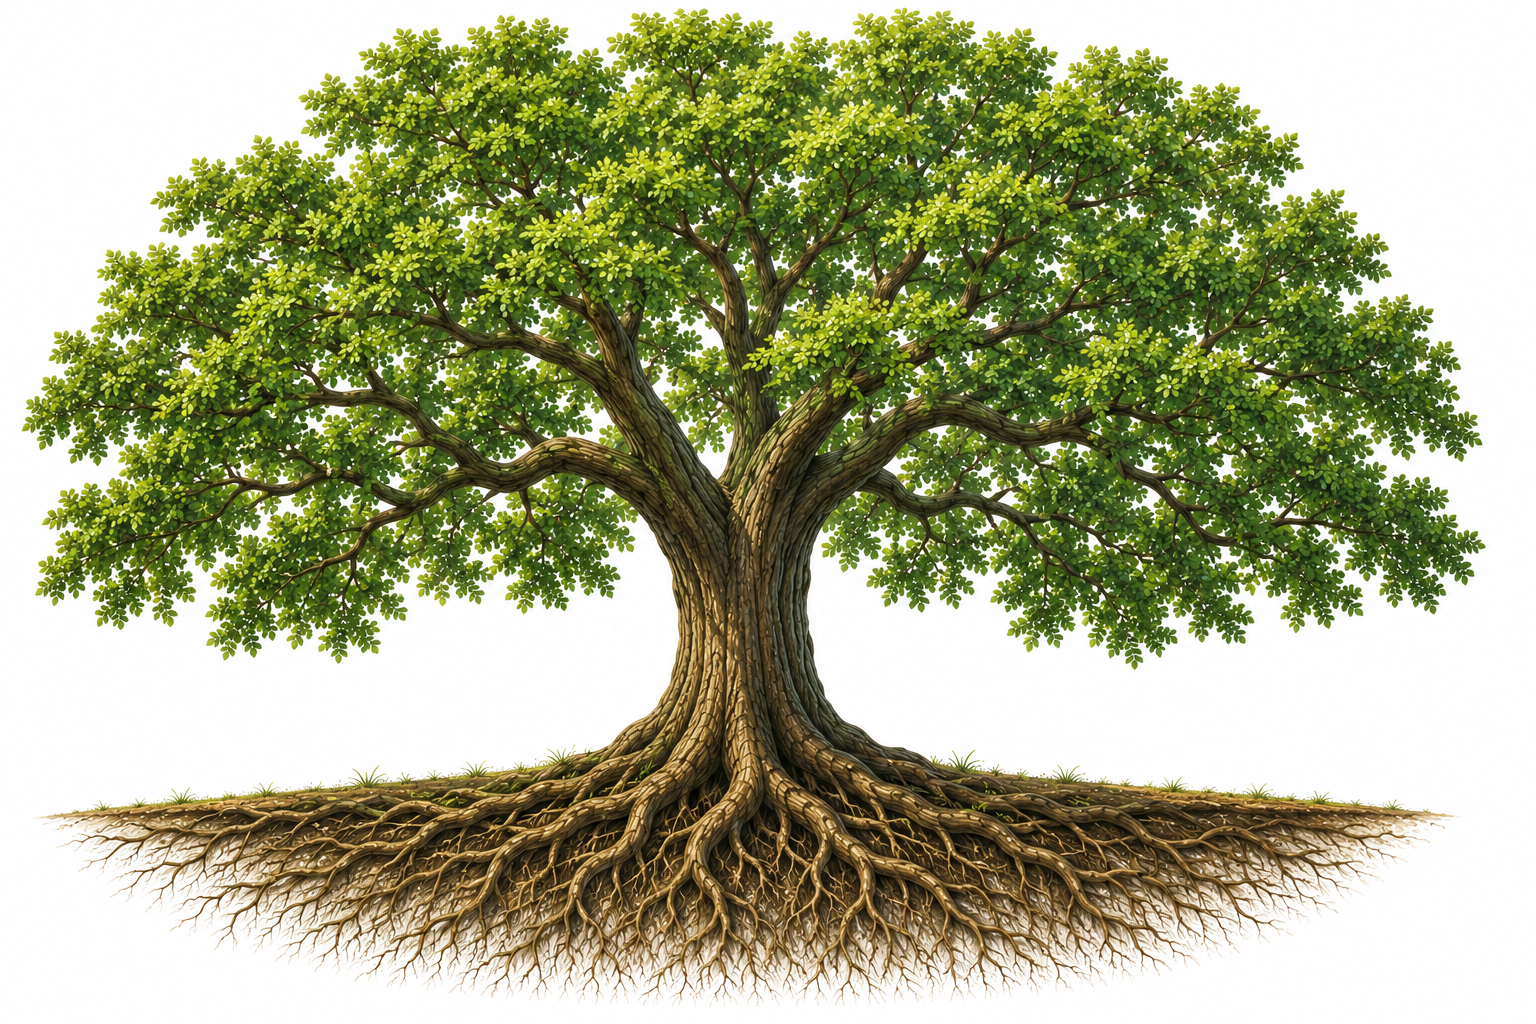
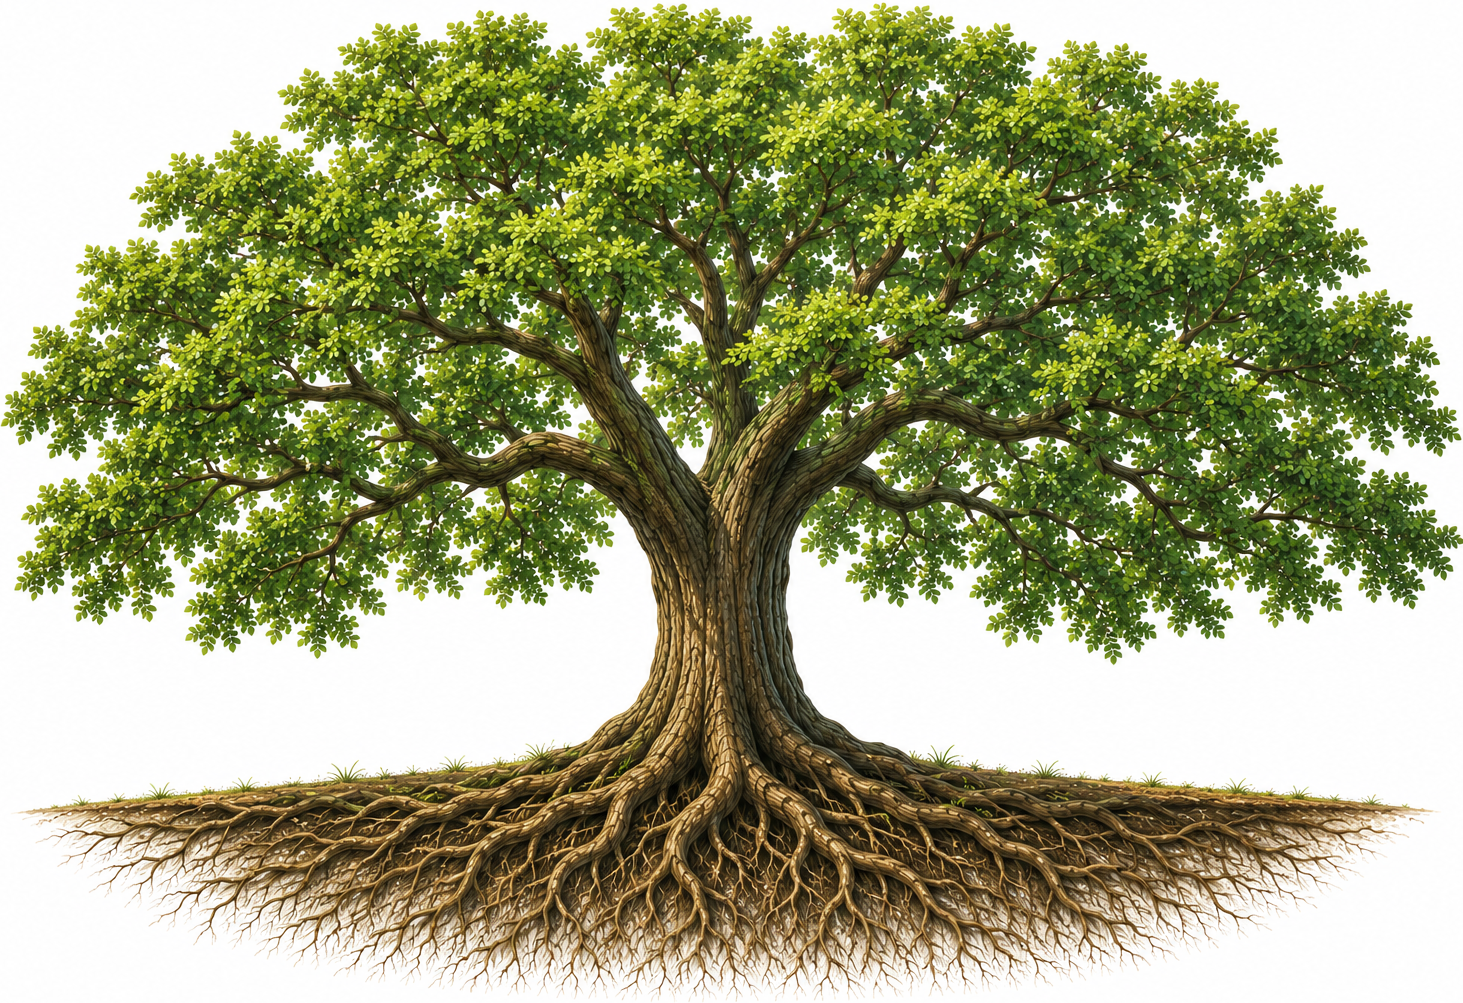
tree and labels

diff --git a/assets/mcqmc26.scss b/assets/mcqmc26.scss
@@ -1,34 +1,97 @@
+.state-stack {
+  position: relative;
+  min-height: 520px;
+}
+
+.state-panel {
+  position: absolute;
+  inset: 0;
+}
+
+.state-stack:has(.fragment.visible) .state-0 {
+  display: none;
+}
+
+
 .tree-slide {
   position: relative;
   width: 100%;
+  font-size: 1vw;
 }
 
-.tree-img {
+.tree-slide .tree-img {
   width: 100%;
   display: block;
 }
 
-.tree-label {
+.tree-slide .tree-label {
   position: absolute;
   font-weight: 700;
-  color: #123d1f;
-  text-shadow: 0 0 10px white, 0 0 14px white;
+  color: #0c2b14;
+  line-height: 1;
+  text-shadow:
+    0 0 8px white,
+    0 0 16px white,
+    0 0 28px white;
 }
 
-.tree-label.foundations {
+.tree-slide .foundations {
   left: 39%;
-  top: 83%;
-  font-size: 1.25em;
+  top: 78%;
+  font-size: 3em;
 }
 
-.tree-label.theory {
+.tree-slide .theory {
   left: 45%;
   top: 48%;
-  font-size: 1.25em;
+  font-size: 3em;
 }
 
-.tree-label.practice {
+.tree-slide .practice {
   left: 18%;
   top: 19%;
-  font-size: 1.35em;
+  font-size: 3em;
+}
+
+.tree-root-label {
+  position: absolute;
+  font-weight: 700;
+  color: #3d2a1c;
+
+  text-shadow:
+    0 0 6px white,
+    0 0 12px white,
+    0 0 18px white;
+
+  font-size: 2em;
+}
+
+.algebra {
+  left: 8%;
+  top: 79%;
+}
+
+.analysis {
+  left: 28%;
+  top: 90%;
+}
+
+.cs {
+  left: 57%;
+  top: 90%;
+  text-align: center;
+}
+
+.statistics {
+  left: 78%;
+  top: 79%;
+}
+
+.tree-only-root {
+  position: absolute;
+  left: 0;
+  top: 0;
+  width: 100%;
+  height: 70%;
+  background: rgba(255,255,255,1);
 }